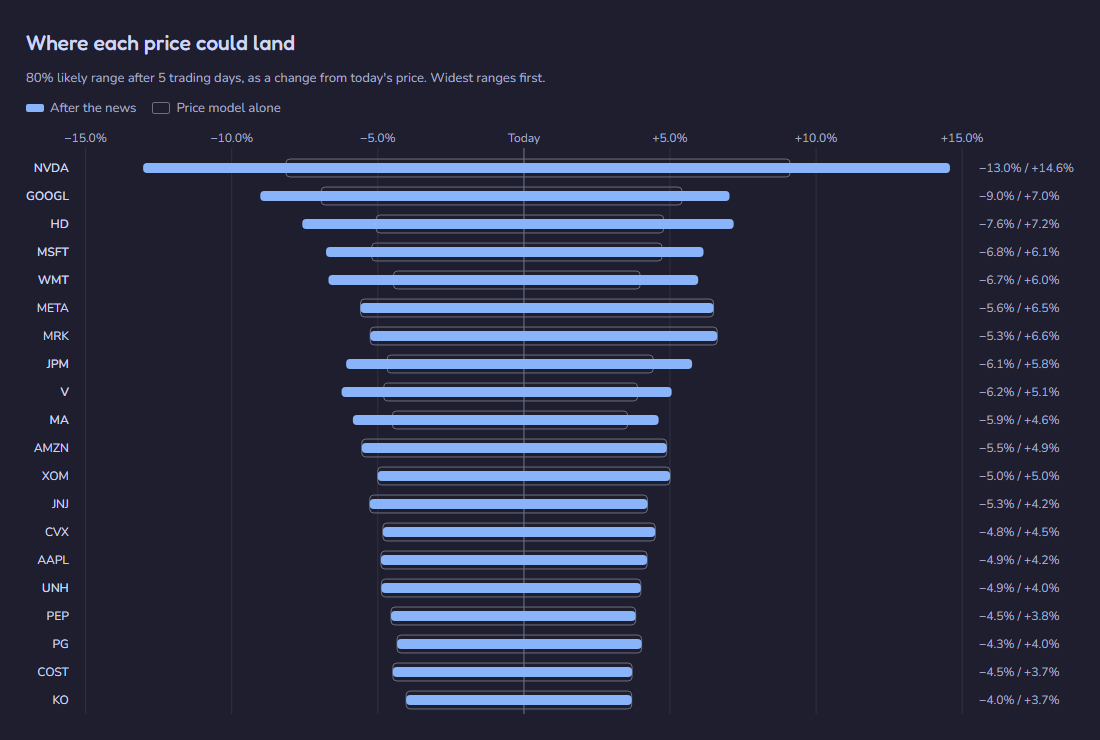
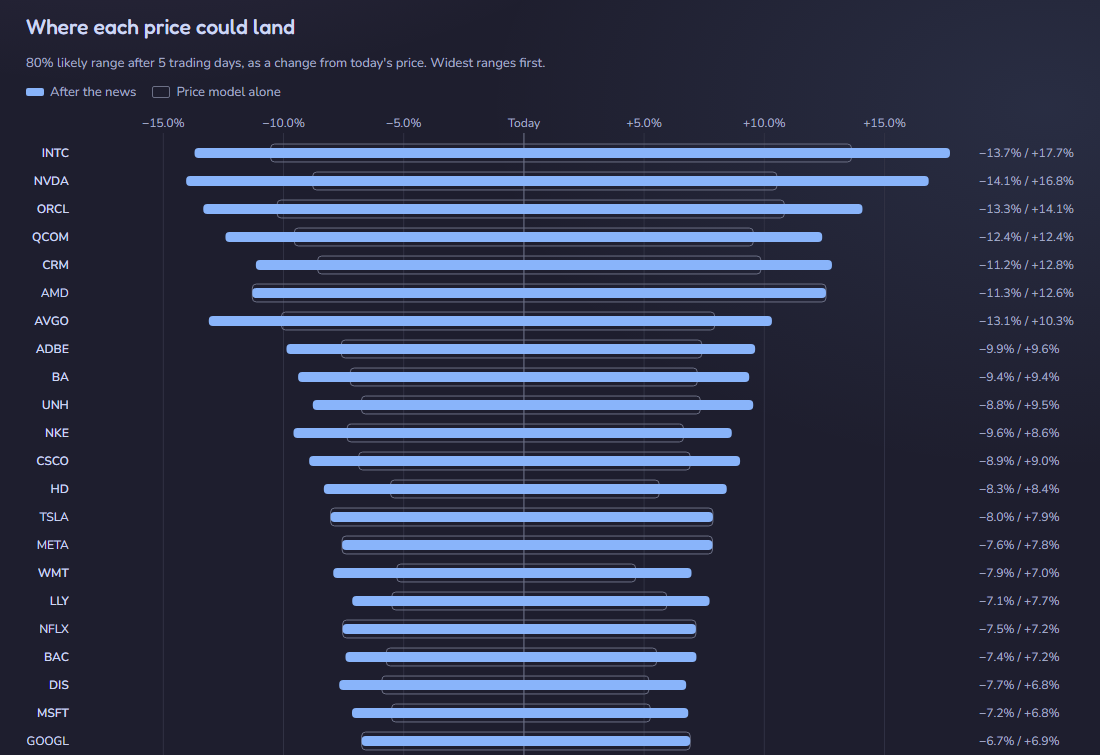
Expand to 40 stocks; retrain calibration when the stock list changes

Changed region(s): [[0.0, 0.0311, 0.9891, 0.9946], [0.0309, 0.1865, 0.0618, 0.9946], [0.8964, 0.9014, 0.9582, 0.9946]]

diff --git a/web/index.html b/web/index.html
@@ -36,7 +36,7 @@
     <p class="sf-hello" id="hello">Hello</p>
     <h1 class="sf-title sf-today-title" id="today-title">Here's what's up with the market</h1>
     <p class="sf-lede" id="market-clock">—</p>
-    <p class="sf-intro">Prolepsis does three things, free: a <b>daily market recap</b> (this page), <b>5-day price forecasts</b> for 20 big US stocks, and an <b>honest scorecard</b> of how every forecast turned out.</p>
+    <p class="sf-intro">Prolepsis does three things, free: a <b>daily market recap</b> (this page), <b>5-day price forecasts</b> for 40 big US stocks, and an <b>honest scorecard</b> of how every forecast turned out.</p>
   </header>
   <div class="sf-top-right">
   <div class="sf-search" id="search">
@@ -81,7 +81,7 @@
     <a class="sf-feat" href="#/forecasts"><span class="sf-feat-k">Forecasts</span><b>Where prices could be next week</b><span class="sf-feat-stat" id="f-fc">—</span></a>
     <a class="sf-feat" href="#/why"><span class="sf-feat-k">Why</span><b>The news behind each forecast</b><span class="sf-feat-stat" id="f-why">—</span></a>
     <a class="sf-feat" href="#/track"><span class="sf-feat-k">Track record</span><b>Every forecast checked, nothing hidden</b><span class="sf-feat-stat" id="f-track">—</span></a>
-    <a class="sf-feat" href="#/news"><span class="sf-feat-k">News</span><b>Headlines for all 20 stocks</b><span class="sf-feat-stat" id="f-news">—</span></a>
+    <a class="sf-feat" href="#/news"><span class="sf-feat-k">News</span><b>Headlines for all 40 stocks</b><span class="sf-feat-stat" id="f-news">—</span></a>
   </nav>
 
 
@@ -106,7 +106,7 @@
   </section>
 
   <section class="sf-sec" id="movers">
-    <h2 class="sf-h" id="movers-title">How our 20 stocks did</h2>
+    <h2 class="sf-h" id="movers-title">How our 40 stocks did</h2>
     <p class="sf-sub">Change on the last trading day, biggest gain first. Tap a stock for its forecast and advice.</p>
     <div class="sf-heat" id="heat" data-stagger></div>
   </section>
@@ -116,7 +116,7 @@
   <section class="sf-sec sf-honest" id="honest">
     <h2 class="sf-h">How good are the forecasts, honestly?</h2>
     <p class="sf-lede" id="edge-line">—</p>
-    <p class="sf-sub">This week's forecasts use prices as of <b id="asof">—</b>. Live news changed <b id="nadj">—</b> of the 20.</p>
+    <p class="sf-sub">This week's forecasts use prices as of <b id="asof">—</b>. Live news changed <b id="nadj">—</b> of the 40.</p>
     <div class="sf-range-explain">
       <div class="sf-waffle" id="waffle" role="img" aria-label="Out of 100 test weeks, how many ended inside the 80% range"></div>
       <div class="sf-range-text">
@@ -206,7 +206,7 @@
   <section class="sf-sec" id="news">
     <div class="sf-row">
       <h2 class="sf-h">Latest headlines</h2>
-      <label class="sf-filter">Show <select id="news-filter" aria-label="Filter headlines by stock"><option value="">Our 20 stocks</option><option value="__market">Whole market</option></select></label>
+      <label class="sf-filter">Show <select id="news-filter" aria-label="Filter headlines by stock"><option value="">All our stocks</option><option value="__market">Whole market</option></select></label>
     </div>
     <p class="sf-sub">Stock news from Google News and Yahoo Finance; market news from CNBC, MarketWatch, The Wall Street Journal, Investing.com, Seeking Alpha and the Federal Reserve. Checked every 15 minutes. Each headline is rated by FinBERT, a finance news model running on this PC.</p>
     <ul class="sf-news" id="news-list" data-stagger></ul>
@@ -221,7 +221,7 @@
     <div class="sf-guide-grid">
       <section>
         <h3 class="sf-h3">What this is</h3>
-        <p>A computer forecast for 20 large US companies, looking about one week ahead (the next 5 trading days). It learns from past prices and then adjusts for recent news headlines.</p>
+        <p>A computer forecast for 40 large US companies, looking about one week ahead (the next 5 trading days). It learns from past prices and then adjusts for recent news headlines.</p>
       </section>
       <section>
         <h3 class="sf-h3">Chance of going up</h3>
@@ -264,7 +264,7 @@
     <p class="sf-wl-lede">Peeking at the week ahead, honestly.</p>
     <ul class="sf-wl-list" id="wl-what">
       <li><b>A daily market recap</b>: what happened while you were away, in plain words.</li>
-      <li><b>5-day price forecasts</b> for 20 big US stocks, with the range where each price will likely land.</li>
+      <li><b>5-day price forecasts</b> for 40 big US stocks, with the range where each price will likely land.</li>
       <li><b>An honest scorecard</b>: every forecast is checked against what really happened, nothing hidden.</li>
     </ul>
     <p class="sf-wl-warn"><b>Please know:</b> this is a free research project, not financial advice. Nobody can reliably predict stock prices. In testing, the up/down calls were right no more often than always guessing "up"; the price ranges are the most reliable part. Never invest money you can't afford to lose.</p>

diff --git a/web/app.js b/web/app.js
@@ -427,7 +427,7 @@
   }
 
   // ---------- Live chart (free TradingView widget) ----------
-  var NASDAQ = ["AAPL", "MSFT", "AMZN", "GOOGL", "META", "NVDA", "PEP", "WMT", "COST"];
+  var NASDAQ = ["AAPL", "MSFT", "AMZN", "GOOGL", "META", "NVDA", "PEP", "WMT", "COST", "TSLA", "NFLX", "AMD", "AVGO", "ADBE", "INTC", "CSCO", "QCOM"];
   var FRAMES = [   // label, candle size, visible span (none = TradingView's default for that size)
     ["1 min", "1"], ["5 min", "5"], ["30 min", "30"], ["1 hour", "60"], ["1 day", "D"],
     ["1 month", "D", "1M"], ["6 months", "D", "6M"], ["1y", "D", "12M"], ["5y", "W", "60M"], ["Max", "M", "ALL"]
@@ -439,7 +439,7 @@
     var box = $("live-chart"), f = FRAMES[frame];
     box.replaceChildren();
     var cfg = {
-      symbol: (NASDAQ.indexOf(openTicker) > -1 ? "NASDAQ:" : "NYSE:") + openTicker,
+      symbol: (NASDAQ.indexOf(openTicker) > -1 ? "NASDAQ:" : "NYSE:") + openTicker.replace("-", "."),   // BRK-B -> NYSE:BRK.B
       interval: f[1], timezone: "America/New_York", theme: isDark() ? "dark" : "light", style: "1",
       locale: "en", autosize: true, allow_symbol_change: false, hide_side_toolbar: true,
       hide_top_toolbar: true, save_image: false, calendar: false, support_host: "https://www.tradingview.com",
@@ -826,7 +826,7 @@
     var rows = (state.forecast || []).filter(function (r) { return mv[r.ticker]; })
       .sort(function (a, b) { return mv[b.ticker].chg_pct - mv[a.ticker].chg_pct; });
     if (!rows.length) { box.appendChild(el("p", "sf-sub", "Daily changes appear after the next price update.")); return; }
-    $("movers-title").textContent = "How our 20 stocks did " + dayWord(mv[rows[0].ticker].date);
+    $("movers-title").textContent = "How our " + rows.length + " stocks did " + dayWord(mv[rows[0].ticker].date);
     var ext = Math.max(2, d3.max(rows, function (r) { return Math.abs(mv[r.ticker].chg_pct); }));
     rows.forEach(function (r) {
       var v = mv[r.ticker].chg_pct, b = el("button", "sf-heat-cell");
@@ -905,7 +905,7 @@
     var wide = rows.slice().sort(function (a, b) { return (b.high - b.low) / b.price - (a.high - a.low) / a.price; })[0];
     $("f-fc").textContent = wide ? "Biggest expected swing: " + wide.name + " (" + pct((wide.low / wide.price - 1) * 100) + " to " + pct((wide.high / wide.price - 1) * 100) + ")" : "—";
     var n = rows.filter(changed).length;
-    $("f-why").textContent = "The news changed " + n + " of 20 forecasts";
+    $("f-why").textContent = "The news changed " + n + " of " + rows.length + " forecasts";
     var t = state.track || {}, cov = calVal("range_coverage");
     $("f-track").textContent = t.graded ? t.graded + " live forecasts checked so far" : !isNaN(cov) ? "Ranges hit " + cov.toFixed(0) + "% in testing" : "—";
     $("f-news").textContent = (state.news || []).length + " stock headlines, " + (state.market_news || []).length + " market stories";

diff --git a/stockpred/config.py b/stockpred/config.py
@@ -8,16 +8,19 @@ NAMES = {
     "META": "Meta", "NVDA": "Nvidia", "JPM": "JPMorgan Chase", "JNJ": "Johnson & Johnson",
     "V": "Visa", "PG": "Procter & Gamble", "XOM": "Exxon Mobil", "UNH": "UnitedHealth",
     "HD": "Home Depot", "MA": "Mastercard", "KO": "Coca-Cola", "PEP": "PepsiCo",
-    "MRK": "Merck", "CVX": "Chevron", "WMT": "Walmart", "COST": "Costco", "SPY": "S&P 500 ETF",
+    "MRK": "Merck", "CVX": "Chevron", "WMT": "Walmart", "COST": "Costco",
+    "TSLA": "Tesla", "NFLX": "Netflix", "AMD": "AMD", "AVGO": "Broadcom", "LLY": "Eli Lilly", "BRK-B": "Berkshire Hathaway", "ORCL": "Oracle", "CRM": "Salesforce", "ADBE": "Adobe", "DIS": "Disney", "BAC": "Bank of America", "INTC": "Intel", "PFE": "Pfizer", "NKE": "Nike", "MCD": "McDonald's", "BA": "Boeing", "ABBV": "AbbVie", "CSCO": "Cisco", "QCOM": "Qualcomm", "UBER": "Uber",
+    "SPY": "S&P 500 ETF",
 }
 
 
 @dataclass
 class Config:
-    # Universe: 20 large US stocks. NOTE: picked with today's hindsight -> survivorship bias.
+    # Universe: 40 large US stocks (20 original + 20 popular names added 2026-11-18). NOTE: picked with today's hindsight -> survivorship bias.
     tickers: list = field(default_factory=lambda: [
         "AAPL", "MSFT", "AMZN", "GOOGL", "META", "NVDA", "JPM", "JNJ", "V", "PG",
         "XOM", "UNH", "HD", "MA", "KO", "PEP", "MRK", "CVX", "WMT", "COST",
+        "TSLA", "NFLX", "AMD", "AVGO", "LLY", "BRK-B", "ORCL", "CRM", "ADBE", "DIS", "BAC", "INTC", "PFE", "NKE", "MCD", "BA", "ABBV", "CSCO", "QCOM", "UBER",
     ])
     benchmark: str = "SPY"
     start: str = "2010-01-01"

diff --git a/stockpred/probability.py b/stockpred/probability.py
@@ -21,10 +21,12 @@ def oos_predictions(panel, feature_cols, model_name, cfg, use_cache=True, max_ag
     """Walk-forward history used for calibration. It takes minutes to rebuild, so a cached copy
     up to `max_age_days` old is reused (calibration barely changes from one day to the next)."""
     last = panel.index.get_level_values("date").max()
+    tickers = sorted(panel.index.get_level_values("ticker").unique())
     path = cfg.data_dir / f"oos_{model_name}_h{cfg.horizon}.pkl"
     if use_cache and path.exists():
         cached = pd.read_pickle(path)
-        if (last - cached["last"]).days <= max_age_days:
+        # reuse only if recent AND made for the same list of stocks
+        if (last - cached["last"]).days <= max_age_days and cached.get("tickers") == tickers:
             return cached["oos"]
 
     print("Training on history, walk-forward (first run takes a few minutes)...")
@@ -33,7 +35,7 @@ def oos_predictions(panel, feature_cols, model_name, cfg, use_cache=True, max_ag
         "q_lo": walk_forward(panel, feature_cols, "q_lo", cfg, target="fwd_ret"),
         "q_hi": walk_forward(panel, feature_cols, "q_hi", cfg, target="fwd_ret"),
     }).join(panel[["up", "fwd_ret"]]).dropna(subset=["up"])
-    pd.to_pickle({"last": last, "oos": oos}, path)
+    pd.to_pickle({"last": last, "oos": oos, "tickers": tickers}, path)
     return oos
 
 

diff --git a/stockpred/market.py b/stockpred/market.py
@@ -45,11 +45,31 @@ _NAME_RE = {tk: re.compile(r"\b(" + pat + r")\b") for tk, pat in {
     "JNJ": "Johnson & Johnson|J&J", "V": "Visa", "PG": "Procter & Gamble|P&G", "XOM": "Exxon",
     "UNH": "UnitedHealth", "HD": "Home Depot", "MA": "Mastercard", "KO": "Coca-Cola|Coke",
     "PEP": "PepsiCo|Pepsi", "MRK": "Merck", "CVX": "Chevron", "WMT": "Walmart", "COST": "Costco",
+    "TSLA": "Tesla",
+    "NFLX": "Netflix",
+    "AMD": "AMD|Advanced Micro Devices",
+    "AVGO": "Broadcom",
+    "LLY": "Eli Lilly|Lilly",
+    "BRK-B": "Berkshire",
+    "ORCL": "Oracle",
+    "CRM": "Salesforce",
+    "ADBE": "Adobe",
+    "DIS": "Disney",
+    "BAC": "Bank of America|BofA",
+    "INTC": "Intel",
+    "PFE": "Pfizer",
+    "NKE": "Nike",
+    "MCD": "McDonald's|McDonald’s",
+    "BA": "Boeing",
+    "ABBV": "AbbVie",
+    "CSCO": "Cisco",
+    "QCOM": "Qualcomm",
+    "UBER": "Uber",
 }.items()}
 
 
 def mentions(title):
-    """Which of our 20 stocks a market headline talks about (by company name)."""
+    """Which of our stocks a market headline talks about (by company name)."""
     return [tk for tk, rx in _NAME_RE.items() if rx.search(title)]
 
 

diff --git a/stockpred/live_news.py b/stockpred/live_news.py
@@ -24,6 +24,26 @@ QUERIES = {
     "HD": "Home Depot stock", "MA": "Mastercard stock", "KO": "Coca-Cola stock",
     "PEP": "PepsiCo stock", "MRK": "Merck stock", "CVX": "Chevron stock",
     "WMT": "Walmart stock", "COST": "Costco stock",
+    "TSLA": "Tesla stock",
+    "NFLX": "Netflix stock",
+    "AMD": "AMD stock",
+    "AVGO": "Broadcom stock",
+    "LLY": "Eli Lilly stock",
+    "BRK-B": "Berkshire Hathaway stock",
+    "ORCL": "Oracle stock",
+    "CRM": "Salesforce stock",
+    "ADBE": "Adobe stock",
+    "DIS": "Disney stock",
+    "BAC": "Bank of America stock",
+    "INTC": "Intel stock",
+    "PFE": "Pfizer stock",
+    "NKE": "Nike stock",
+    "MCD": "McDonald's stock",
+    "BA": "Boeing stock",
+    "ABBV": "AbbVie stock",
+    "CSCO": "Cisco stock",
+    "QCOM": "Qualcomm stock",
+    "UBER": "Uber stock",
 }
 
 

diff --git a/README.md b/README.md
@@ -7,13 +7,13 @@
 <a href="https://faizsyed13.github.io/Prolepsis---Future-of-stock-forecasting/">Open the live page</a> · <a href="https://github.com/FaizSyed13/Prolepsis---Future-of-stock-forecasting/releases/latest">Download</a></p>
 
 <p align="center">
-  <img src="docs/screenshot-home.png" alt="Prolepsis home page: forecast summary, search box and how-to-read guide" width="49%">
-  <img src="docs/screenshot-forecast.png" alt="Chart of where each of the 20 stocks could land after 5 trading days" width="49%">
+  <img src="docs/screenshot-home.png" alt="Prolepsis Today page: greeting, stock search, next week at a glance and the market summary" width="49%">
+  <img src="docs/screenshot-forecast.png" alt="Chart of where each of the 40 stocks could land after 5 trading days" width="49%">
 </p>
 
 ## Stock Predictor (research pipeline)
 
-Predicts whether each of 20 large US stocks will **beat SPY over the next 5 trading days**,
+Predicts whether each of 40 large US stocks will **beat SPY over the next 5 trading days**,
 and tests that prediction honestly with a walk-forward backtest.
 
 ## Just want to see the forecasts?

diff --git a/.github/release-notes.md b/.github/release-notes.md
@@ -1,3 +1,11 @@
+## What's new
+- **40 stocks** instead of 20: added Tesla, Netflix, AMD, Broadcom, Eli Lilly, Berkshire Hathaway, Oracle, Salesforce, Adobe, Disney, Bank of America, Intel, Pfizer, Nike, McDonald's, Boeing, AbbVie, Cisco, Qualcomm and Uber.
+- **New Today page**: a morning market recap (30-second read or the full story), next week's forecasts at a glance, 9 market tiles with charts, overnight futures, and how every stock did.
+- **More news**: CNBC, MarketWatch, The Wall Street Journal, Investing.com, Seeking Alpha and the Federal Reserve, plus a Whole market filter on the News page.
+- **Open-source charts** (TradingView Lightweight Charts) and a live price strip.
+- **Animations** throughout, a welcome box on your first visit, and a How to read page.
+- The public page now updates twice each weekday, early morning and evening.
+
 ## Download
 Under **Assets** below, click **Prolepsis-….zip** (not "Source code"), then unzip it.
 
